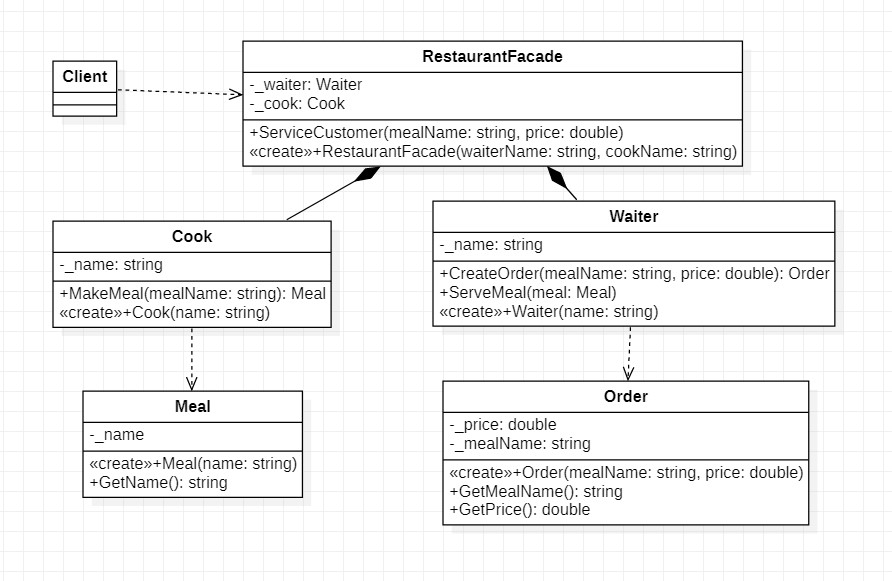
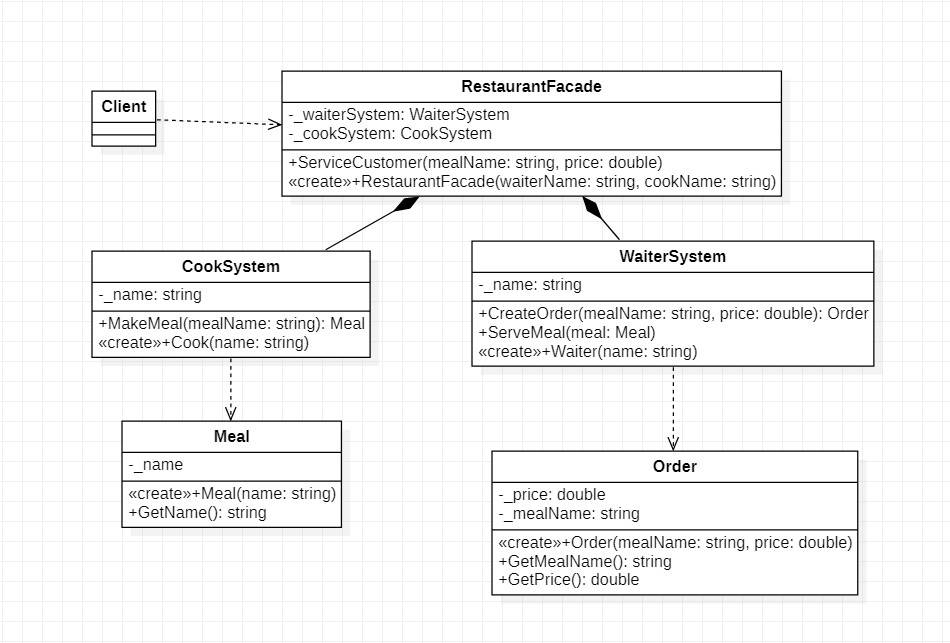
Class names changes
Changed Class names to resemble more initial intend.

diff --git a/Facade/FacadeProgram.cs b/Facade/FacadeProgram.cs
@@ -41,11 +41,11 @@ namespace Facade
         }
     }
 
-    class Waiter
+    class WaiterSystem
     {
         private string _name;
 
-        public Waiter(string name)
+        public WaiterSystem(string name)
         {
             _name = name;
         }
@@ -67,11 +67,11 @@ namespace Facade
         }
     }
 
-    class Cook
+    class CookSystem
     {
         private string _name;
 
-        public Cook(string name)
+        public CookSystem(string name)
         {
             _name = name;
         }
@@ -85,13 +85,13 @@ namespace Facade
 
     class RestaurantFacade
     {
-        private Waiter _waiter;
-        private Cook _cook;
+        private WaiterSystem _waiterSystem;
+        private CookSystem _cookSystem;
 
         public RestaurantFacade(string waiterName, string cookName)
         {
-            _waiter = new Waiter(waiterName);
-            _cook = new Cook(cookName);
+            _waiterSystem = new WaiterSystem(waiterName);
+            _cookSystem = new CookSystem(cookName);
         }
 
         public void ServiceCustomer()
@@ -99,9 +99,9 @@ namespace Facade
             string mealName;
             Console.WriteLine("Enter the meal you want to get: ");
             mealName = Console.ReadLine();
-            Order order = _waiter.CreateOrder(mealName, 22.99);
-            Meal meal = _cook.MakeMeal(order);
-            _waiter.ServeOrder(meal);
+            Order order = _waiterSystem.CreateOrder(mealName, 22.99);
+            Meal meal = _cookSystem.MakeMeal(order);
+            _waiterSystem.ServeOrder(meal);
         }
     }
     class FacadeProgram
